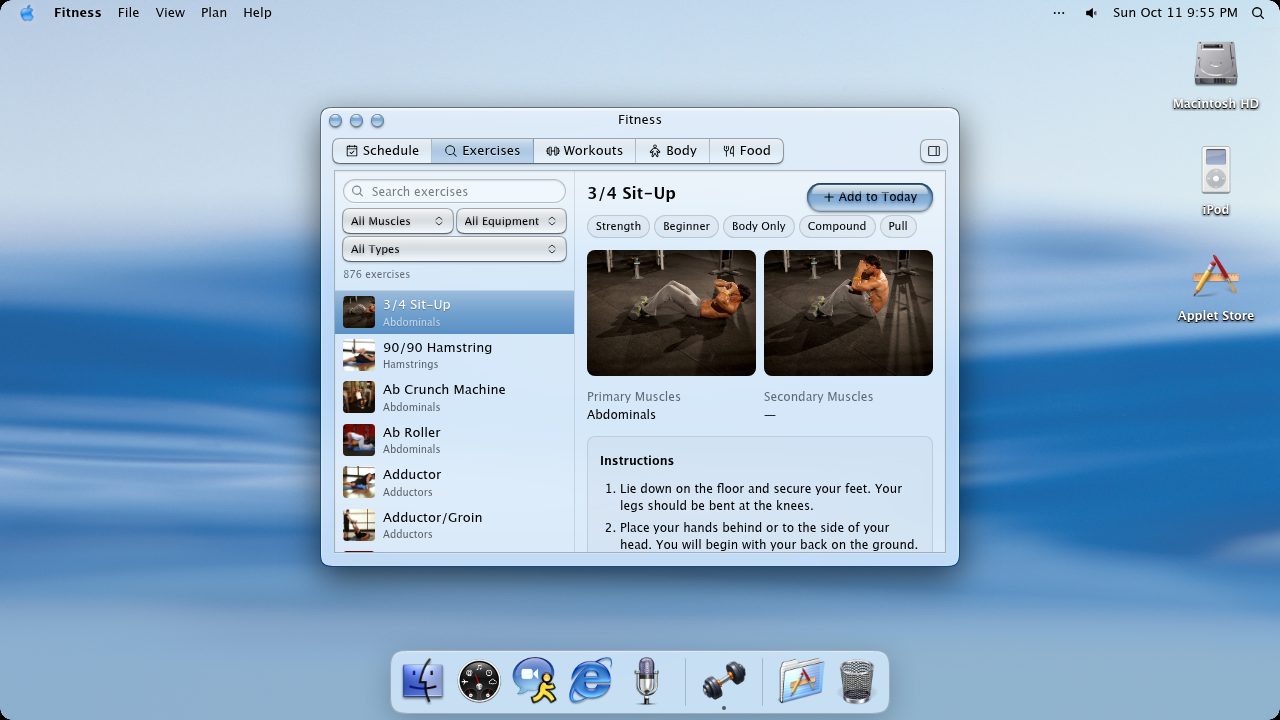
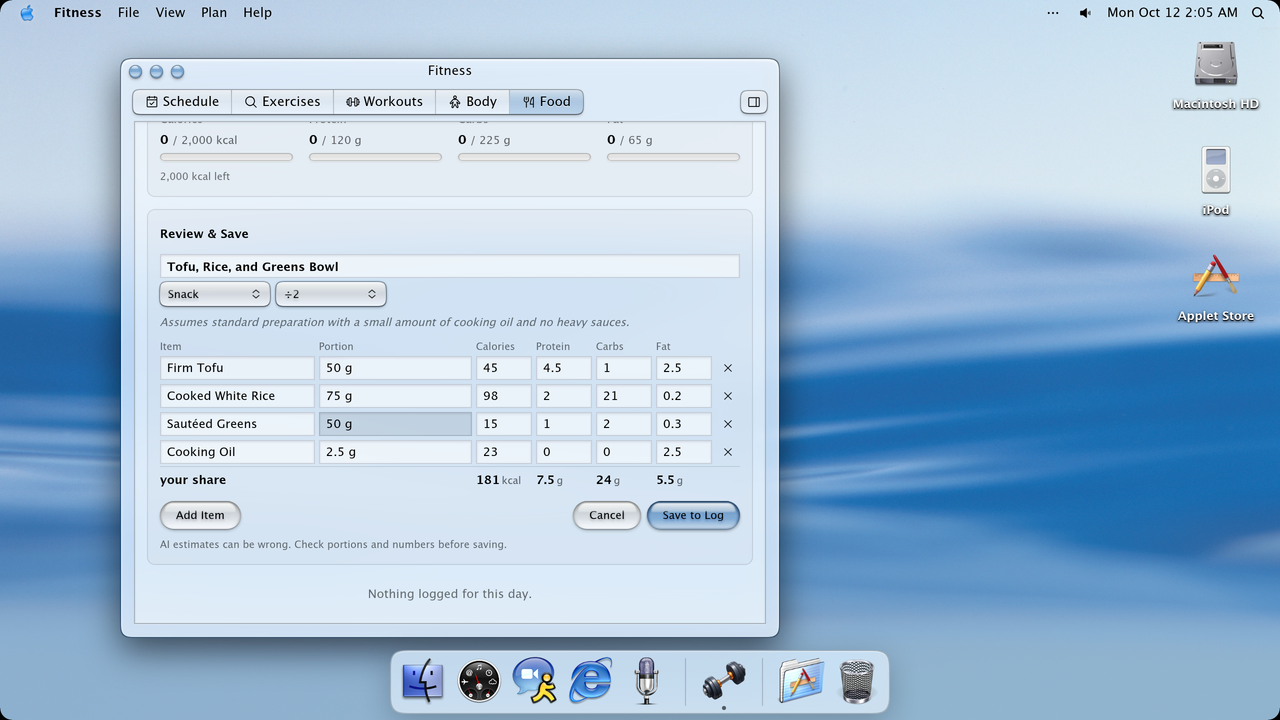
docs: retake October what's-new cards
Dictionary shows 豆腐 stroke-order cards mid-draw. Fitness shows a real AI meal estimate with the split select set to ÷2.

diff --git a/public/docs/changelog.html b/public/docs/changelog.html
@@ -499,8 +499,8 @@
 <hr>
 <h2>October 2026</h2>
 <div class="changelog-feature-grid">
-<article class="changelog-feature"><img src="/docs-assets/changelog/2026-10-02-dictionary-16x9.webp" alt="Dictionary in the October 2026 ryOS snapshot" width="1280" height="720" loading="lazy"><div class="changelog-feature-copy"><h3>Dictionary</h3><p>Look up English, Chinese, Japanese, and Korean with readings, handwriting, and stroke-order cards.</p></div></article>
-<article class="changelog-feature"><img src="/docs-assets/changelog/2026-10-01-fitness-16x9.webp" alt="Fitness in the October 2026 ryOS snapshot" width="1280" height="720" loading="lazy"><div class="changelog-feature-copy"><h3>Fitness</h3><p>Log workouts, plan the week, and estimate a shared meal from a photo.</p></div></article>
+<article class="changelog-feature"><img src="/docs-assets/changelog/2026-10-02-dictionary-16x9.webp" alt="Dictionary in the October 2026 ryOS snapshot" width="1280" height="720" loading="lazy"><div class="changelog-feature-copy"><h3>Dictionary</h3><p>Stroke-order cards for 豆腐 show each character's own reading and meaning.</p></div></article>
+<article class="changelog-feature"><img src="/docs-assets/changelog/2026-10-01-fitness-16x9.webp" alt="Fitness in the October 2026 ryOS snapshot" width="1280" height="720" loading="lazy"><div class="changelog-feature-copy"><h3>Fitness</h3><p>Estimate a shared meal, then split your portion beside the meal type.</p></div></article>
 </div>
 <details>
 <summary>More from this month (22)</summary>

diff --git a/public/docs/overview.html b/public/docs/overview.html
@@ -504,7 +504,7 @@
 <div class="latest-changelog-card-copy">
 <p class="latest-changelog-card-label">October 2026</p>
 <h3>Dictionary</h3>
-<p>Look up English, Chinese, Japanese, and Korean with readings, handwriting, and stroke-order cards.</p>
+<p>Stroke-order cards for 豆腐 show each character's own reading and meaning.</p>
 <p class="latest-changelog-card-cta">See what's new →</p>
 </div>
 </a>
@@ -513,7 +513,7 @@
 <div class="latest-changelog-card-copy">
 <p class="latest-changelog-card-label">October 2026</p>
 <h3>Fitness</h3>
-<p>Log workouts, plan the week, and estimate a shared meal from a photo.</p>
+<p>Estimate a shared meal, then split your portion beside the meal type.</p>
 <p class="latest-changelog-card-cta">See what's new →</p>
 </div>
 </a>

diff --git a/docs/9-changelog.md b/docs/9-changelog.md
@@ -20,8 +20,8 @@ Open **More from this month** for fixes, polish, infrastructure, and smaller upd
 ## October 2026
 
 <div class="changelog-feature-grid">
-<article class="changelog-feature"><img src="/docs-assets/changelog/2026-10-02-dictionary-16x9.webp" alt="Dictionary in the October 2026 ryOS snapshot" width="1280" height="720" loading="lazy"><div class="changelog-feature-copy"><h3>Dictionary</h3><p>Look up English, Chinese, Japanese, and Korean with readings, handwriting, and stroke-order cards.</p></div></article>
-<article class="changelog-feature"><img src="/docs-assets/changelog/2026-10-01-fitness-16x9.webp" alt="Fitness in the October 2026 ryOS snapshot" width="1280" height="720" loading="lazy"><div class="changelog-feature-copy"><h3>Fitness</h3><p>Log workouts, plan the week, and estimate a shared meal from a photo.</p></div></article>
+<article class="changelog-feature"><img src="/docs-assets/changelog/2026-10-02-dictionary-16x9.webp" alt="Dictionary in the October 2026 ryOS snapshot" width="1280" height="720" loading="lazy"><div class="changelog-feature-copy"><h3>Dictionary</h3><p>Stroke-order cards for 豆腐 show each character's own reading and meaning.</p></div></article>
+<article class="changelog-feature"><img src="/docs-assets/changelog/2026-10-01-fitness-16x9.webp" alt="Fitness in the October 2026 ryOS snapshot" width="1280" height="720" loading="lazy"><div class="changelog-feature-copy"><h3>Fitness</h3><p>Estimate a shared meal, then split your portion beside the meal type.</p></div></article>
 </div>
 <details>
 <summary>More from this month (22)</summary>
